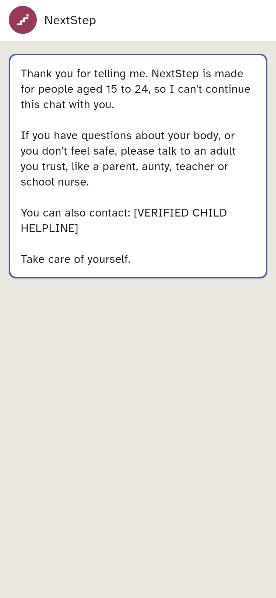
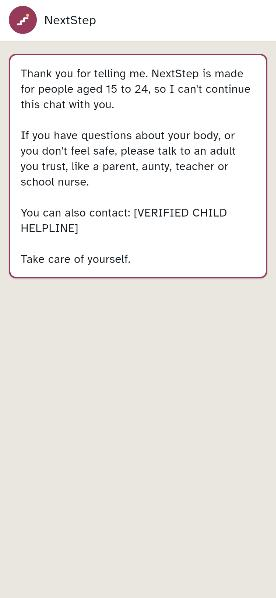
Make berry consistent across all screens
Service card banner and icons, crisis call button and border, under-15
panel, safety chip (deep berry), quick-exit calculator, staff screens and
the dashboard now use berry instead of teal/blue.

Changed region(s): [[0.9565, 0.0903, 0.9855, 0.4515], [0.029, 0.0903, 0.058, 0.4515]]

diff --git a/app/static/dashboard/index.html b/app/static/dashboard/index.html
@@ -29,7 +29,7 @@ input{min-height:44px;border-radius:12px;border:2px solid #E3DFD7;padding:0 12px
         </div>
       </div>
       <div style="display:flex;flex-wrap:wrap;gap:10px;align-items:center">
-        <span style="display:inline-flex;align-items:center;gap:8px;background:#DCEFEC;color:#0F5C5A;font-weight:700;font-size:14px;padding:8px 14px;border-radius:999px">
+        <span style="display:inline-flex;align-items:center;gap:8px;background:#FBE4EC;color:#A3305A;font-weight:700;font-size:14px;padding:8px 14px;border-radius:999px">
           <svg width="16" height="16" viewBox="0 0 24 24" fill="none" stroke="currentColor" stroke-width="2" stroke-linecap="round" stroke-linejoin="round" aria-hidden="true"><path d="M7 11h10a2 2 0 012 2v6a2 2 0 01-2 2H7a2 2 0 01-2-2v-6a2 2 0 012-2z M8 11V8a4 4 0 018 0v3"/></svg>Anonymised aggregate data
         </span>
         <span id="sample" hidden style="background:#F6C453;color:#1B1F23;font-weight:700;font-size:14px;padding:8px 14px;border-radius:999px">Sample / test data</span>
@@ -42,8 +42,8 @@ input{min-height:44px;border-radius:12px;border:2px solid #E3DFD7;padding:0 12px
       <h2>Sign in</h2>
       <input id="u" aria-label="Username" placeholder="Username" autocomplete="username">
       <input id="p" aria-label="Password" placeholder="Password" type="password" autocomplete="current-password">
-      <button type="button" id="go" style="min-height:44px;border-radius:999px;border:none;background:#0F5C5A;color:#FFFFFF;font:700 15px 'Atkinson Hyperlegible',sans-serif">Sign in</button>
-      <span id="err" style="color:#C2462E;font-size:14px"></span>
+      <button type="button" id="go" style="min-height:44px;border-radius:999px;border:none;background:#A3305A;color:#FFFFFF;font:700 15px 'Atkinson Hyperlegible',sans-serif">Sign in</button>
+      <span id="err" style="color:#6E1F3D;font-size:14px"></span>
     </section>
 
     <div id="app" hidden style="display:flex;flex-direction:column;gap:24px">
@@ -73,15 +73,15 @@ input{min-height:44px;border-radius:12px;border:2px solid #E3DFD7;padding:0 12px
           <div id="langs" style="display:flex;flex-direction:column;gap:16px"></div>
           <span style="font-size:13px;color:#4A5560">Voice notes: <span id="voice"></span> of questions arrived as voice.</span>
         </section>
-        <section class="panel" style="border:2px solid #2F5DA8;gap:12px">
-          <h2 style="display:flex;align-items:center;gap:10px"><svg width="22" height="22" viewBox="0 0 24 24" fill="none" stroke="#2F5DA8" stroke-width="2" stroke-linecap="round" stroke-linejoin="round" aria-hidden="true"><path d="M12 20s-7-4.5-7-10a4 4 0 017-2.5A4 4 0 0119 10c0 5.5-7 10-7 10z"/></svg>Crisis escalations</h2>
-          <span id="crisis" style="font-family:'Bricolage Grotesque',sans-serif;font-size:48px;font-weight:700;color:#2F5DA8;line-height:1"></span>
+        <section class="panel" style="border:2px solid #6E1F3D;gap:12px">
+          <h2 style="display:flex;align-items:center;gap:10px"><svg width="22" height="22" viewBox="0 0 24 24" fill="none" stroke="#6E1F3D" stroke-width="2" stroke-linecap="round" stroke-linejoin="round" aria-hidden="true"><path d="M12 20s-7-4.5-7-10a4 4 0 017-2.5A4 4 0 0119 10c0 5.5-7 10-7 10z"/></svg>Crisis escalations</h2>
+          <span id="crisis" style="font-family:'Bricolage Grotesque',sans-serif;font-size:48px;font-weight:700;color:#6E1F3D;line-height:1"></span>
           <span style="font-size:15px">Times support contacts were shared after a disclosure.</span>
           <span style="font-size:13px;line-height:20px;color:#4A5560">Count only. No message text, IDs, types below 5 or exact times are ever stored or shown.</span>
         </section>
       </div>
 
-      <section style="background:#DCEFEC;border-radius:20px;padding:20px 24px;display:flex;flex-wrap:wrap;gap:12px 32px;font-size:14px;line-height:20px;color:#0A403F">
+      <section style="background:#FBE4EC;border-radius:20px;padding:20px 24px;display:flex;flex-wrap:wrap;gap:12px 32px;font-size:14px;line-height:20px;color:#6E1F3D">
         <strong style="flex:1 1 100%;font-size:16px">Privacy rules for this dashboard</strong>
         <span style="flex:1 1 260px">No names, phone numbers, WhatsApp IDs or message content: events are counted at source and the raw chat is never sent here.</span>
         <span style="flex:1 1 260px">Any count below 5 shows as "&lt;5" to prevent identifying individuals.</span>
@@ -131,7 +131,7 @@ input{min-height:44px;border-radius:12px;border:2px solid #E3DFD7;padding:0 12px
     const rb = $('ranges'); rb.textContent = '';
     for (const [k, l] of R) {
       const on = k === cur;
-      const b = el('button', `min-height:44px;padding:0 18px;border-radius:999px;border:2px solid #0F5C5A;background:${on ? '#0F5C5A' : '#FFFFFF'};color:${on ? '#FFFFFF' : '#0F5C5A'};font:700 15px 'Atkinson Hyperlegible',sans-serif`, l);
+      const b = el('button', `min-height:44px;padding:0 18px;border-radius:999px;border:2px solid #A3305A;background:${on ? '#A3305A' : '#FFFFFF'};color:${on ? '#FFFFFF' : '#A3305A'};font:700 15px 'Atkinson Hyperlegible',sans-serif`, l);
       b.type = 'button'; b.setAttribute('aria-pressed', String(on)); b.onclick = () => { cur = k; load(); }; rb.appendChild(b);
     }
     $('rtext').textContent = d.range_text;
@@ -153,8 +153,8 @@ input{min-height:44px;border-radius:12px;border:2px solid #E3DFD7;padding:0 12px
       row.appendChild(el('span', 'flex:0 0 140px;font-size:14px;color:#4A5560', x.conv));
       f.appendChild(row);
     }
-    bars('ages', d.ages, ['#0F5C5A', '#2D8A84', '#4A5560']);
-    bars('langs', d.langs, ['#0F5C5A', '#C2462E']);
+    bars('ages', d.ages, ['#A3305A', '#C65B82', '#4A5560']);
+    bars('langs', d.langs, ['#A3305A', '#6E1F3D']);
     $('voice').textContent = d.voice_share;
     $('crisis').textContent = d.crisis;
   }

diff --git a/app_flutter/lib/screens/staff/staff.dart b/app_flutter/lib/screens/staff/staff.dart
@@ -52,7 +52,7 @@ Scaffold _page(BuildContext context, String title, List<Widget> children, {Widge
   );
 }
 
-final _primary = FilledButton.styleFrom(backgroundColor: W.teal, minimumSize: const Size(48, 48), shape: const StadiumBorder());
+final _primary = FilledButton.styleFrom(backgroundColor: W.berry, minimumSize: const Size(48, 48), shape: const StadiumBorder());
 
 class StaffLoginScreen extends StatefulWidget {
   const StaffLoginScreen({super.key});
@@ -177,7 +177,7 @@ class _SessionsScreenState extends State<SessionsScreen> {
             onTap: () => context.push('/staff/session/${x['id']}'),
           )),
         ),
-    ], fab: FloatingActionButton.extended(key: const Key('new-session'), backgroundColor: W.teal, foregroundColor: Colors.white,
+    ], fab: FloatingActionButton.extended(key: const Key('new-session'), backgroundColor: W.berry, foregroundColor: Colors.white,
         onPressed: () => _create(s), icon: const Icon(Icons.add), label: const Text('New session')));
   }
 }
@@ -230,7 +230,7 @@ class _SessionScreenState extends State<SessionScreen> {
         _panel(Column(children: [
           QrImageView(data: ses['join_url'], size: 200, backgroundColor: Colors.white),
           Text(ses['join_code'], key: const Key('join-code'),
-              style: const TextStyle(fontSize: 34, fontWeight: FontWeight.w800, letterSpacing: 6, color: W.teal)),
+              style: const TextStyle(fontSize: 34, fontWeight: FontWeight.w800, letterSpacing: 6, color: W.berry)),
           SelectableText(ses['join_url'], style: const TextStyle(fontSize: 12, color: _text2)),
         ])),
         SizedBox(
@@ -241,7 +241,7 @@ class _SessionScreenState extends State<SessionScreen> {
               Container(
                 margin: const EdgeInsets.only(top: 12),
                 padding: const EdgeInsets.all(12),
-                decoration: BoxDecoration(borderRadius: BorderRadius.circular(12), border: Border.all(color: W.blue, width: 2)),
+                decoration: BoxDecoration(borderRadius: BorderRadius.circular(12), border: Border.all(color: W.berry, width: 2)),
                 child: Text('${data!['flagged_count']} flagged for support. ${data!['support_reminder']}', key: const Key('flag-reminder')),
               ),
             const SizedBox(height: 12),
@@ -281,7 +281,7 @@ class _SessionScreenState extends State<SessionScreen> {
           padding: const EdgeInsets.only(bottom: 10),
           child: _panel(Column(crossAxisAlignment: CrossAxisAlignment.start, children: [
             Row(children: [
-              Expanded(child: Text('${t['label']} · ${t['count']}', style: const TextStyle(fontWeight: FontWeight.w700, color: W.teal))),
+              Expanded(child: Text('${t['label']} · ${t['count']}', style: const TextStyle(fontWeight: FontWeight.w700, color: W.berry))),
               Checkbox(
                 value: t['answered'] == true,
                 onChanged: (v) async {
@@ -338,13 +338,13 @@ class _ProjectorScreenState extends State<ProjectorScreen> {
     return Scaffold(
       backgroundColor: _bg,
       body: ListView(padding: const EdgeInsets.all(32), children: [
-        Text('Code ${data?['join_code'] ?? ''}', style: const TextStyle(fontSize: 28, fontWeight: FontWeight.w800, color: W.teal)),
+        Text('Code ${data?['join_code'] ?? ''}', style: const TextStyle(fontSize: 28, fontWeight: FontWeight.w800, color: W.berry)),
         const SizedBox(height: 20),
         for (final t in themes)
           Padding(
             padding: const EdgeInsets.only(bottom: 20),
             child: _panel(Column(crossAxisAlignment: CrossAxisAlignment.start, children: [
-              Text(t['label'], style: const TextStyle(fontSize: 30, fontWeight: FontWeight.w700, color: W.teal)),
+              Text(t['label'], style: const TextStyle(fontSize: 30, fontWeight: FontWeight.w700, color: W.berry)),
               const SizedBox(height: 10),
               if (t['answer'] != null) Text(t['answer'], style: const TextStyle(fontSize: 24, height: 1.4)),
             ])),

diff --git a/app_flutter/lib/widgets/chat_ui.dart b/app_flutter/lib/widgets/chat_ui.dart
@@ -13,11 +13,9 @@ class W {
   static const bot = Color(0xFFFFFFFF);
   static const btnLine = Color(0xFFE9EDEF);
   static const link = Color(0xFFA3305A); // berry: reply buttons
-  static const teal = Color(0xFF0F5C5A); // kept for the service card
   static const berry = Color(0xFFA3305A); // logo, mic/send, accents
   static const berryDeep = Color(0xFF6E1F3D);
   static const yellow = Color(0xFFF6C453);
-  static const blue = Color(0xFF2F5DA8);
   static const pillYellow = Color(0xFFFFF5C4);
   static const pillYellowInk = Color(0xFF54470F);
   static const shadow = [BoxShadow(color: Color(0x21000000), offset: Offset(0, 1), blurRadius: 0.5)];
@@ -275,7 +273,7 @@ class BotBubble extends StatelessWidget {
                 padding: const EdgeInsets.only(top: 4),
                 child: Wrap(spacing: 6, children: [
                   if (draft) Tag(draftLabel, bg: W.yellow, fg: const Color(0xFF1B1F23)),
-                  if (safety) Tag(safetyLabel, bg: W.blue, fg: Colors.white),
+                  if (safety) Tag(safetyLabel, bg: W.berryDeep, fg: Colors.white),
                 ]),
               ),
           ]),
@@ -293,14 +291,14 @@ class ServiceCardTop extends StatelessWidget {
         margin: const EdgeInsets.fromLTRB(4, 4, 4, 0),
         height: 140,
         padding: const EdgeInsets.all(14),
-        decoration: BoxDecoration(color: W.teal, borderRadius: BorderRadius.circular(8)),
+        decoration: BoxDecoration(color: W.berry, borderRadius: BorderRadius.circular(8)),
         child: Column(crossAxisAlignment: CrossAxisAlignment.start, mainAxisAlignment: MainAxisAlignment.spaceBetween, children: [
           Row(crossAxisAlignment: CrossAxisAlignment.start, children: [
             SizedBox(width: 34, height: 34, child: CustomPaint(painter: StepsMark(stroke: W.berry, dot: W.berryDeep, tile: Colors.white))),
             const Spacer(),
             if (free != null) Tag(free!, bg: W.yellow, fg: const Color(0xFF1B1F23)),
             const SizedBox(width: 6),
-            if (youth != null) Tag(youth!, bg: Colors.white, fg: W.teal),
+            if (youth != null) Tag(youth!, bg: Colors.white, fg: W.berry),
           ]),
           Text(label, style: const TextStyle(fontSize: 20, fontWeight: FontWeight.w700, color: Colors.white)),
         ]),

diff --git a/app_flutter/lib/ui/preview.dart b/app_flutter/lib/ui/preview.dart
@@ -61,7 +61,7 @@ class PreviewScreen extends StatelessWidget {
       case 'under15':
         return Scaffold(
           appBar: nsBar(title: 'NextStep', brand: true),
-          body: NsBody(children: [Panel(border: W.blue, child: Text(t('age', 'under15'), style: bodyText))]),
+          body: NsBody(children: [Panel(border: W.berry, child: Text(t('age', 'under15'), style: bodyText))]),
         );
       case 'language':
         return Scaffold(
@@ -212,9 +212,9 @@ class PreviewScreen extends StatelessWidget {
                         const SizedBox(height: 8),
                         const Text('[DEMO] Youth Health Service A', style: TextStyle(fontSize: 16, fontWeight: FontWeight.w700)),
                         const SizedBox(height: 6),
-                        const Row(children: [Icon(Icons.place_outlined, size: 18, color: W.teal), SizedBox(width: 6), Text('[STREET ADDRESS], Yaba')]),
+                        const Row(children: [Icon(Icons.place_outlined, size: 18, color: W.berry), SizedBox(width: 6), Text('[STREET ADDRESS], Yaba')]),
                         const SizedBox(height: 6),
-                        const Row(children: [Icon(Icons.schedule, size: 18, color: W.teal), SizedBox(width: 6), Text('[DAYS], [HOURS]')]),
+                        const Row(children: [Icon(Icons.schedule, size: 18, color: W.berry), SizedBox(width: 6), Text('[DAYS], [HOURS]')]),
                         const SizedBox(height: 10),
                         Text(t('referral', 'expect_title'), style: const TextStyle(fontWeight: FontWeight.w700)),
                         Text(t('referral', 'expect')),
@@ -267,8 +267,8 @@ class PreviewScreen extends StatelessWidget {
         return Scaffold(
           appBar: nsBar(title: t('app', 'crisis_title'), onBack: back, actions: [exit]),
           body: NsBody(
-            bottom: PrimaryButton('${t('app', 'call')} [VERIFIED HELPLINE 1]', onPressed: nop, color: W.blue),
-            children: [Panel(border: W.blue, child: Text(t('crisis', 'violence'), style: bodyText))],
+            bottom: PrimaryButton('${t('app', 'call')} [VERIFIED HELPLINE 1]', onPressed: nop, color: W.berry),
+            children: [Panel(border: W.berry, child: Text(t('crisis', 'violence'), style: bodyText))],
           ),
         );
 

diff --git a/app_flutter/lib/screens/chat.dart b/app_flutter/lib/screens/chat.dart
@@ -249,20 +249,20 @@ class _ChatScreenState extends State<ChatScreen> {
               Text(c['name'], style: const TextStyle(fontSize: 16, fontWeight: FontWeight.w700)),
               const SizedBox(height: 6),
               Row(crossAxisAlignment: CrossAxisAlignment.start, children: [
-                const Icon(Icons.place_outlined, size: 18, color: W.teal),
+                const Icon(Icons.place_outlined, size: 18, color: W.berry),
                 const SizedBox(width: 6),
                 Expanded(child: Text(c['address'])),
               ]),
               const SizedBox(height: 6),
               Row(crossAxisAlignment: CrossAxisAlignment.start, children: [
-                const Icon(Icons.schedule, size: 18, color: W.teal),
+                const Icon(Icons.schedule, size: 18, color: W.berry),
                 const SizedBox(width: 6),
                 Expanded(child: Text(c['hours_raw'])),
               ]),
               if (c['code'] != null) ...[
                 const SizedBox(height: 6),
                 Row(children: [
-                  const Icon(Icons.confirmation_number_outlined, size: 18, color: W.teal),
+                  const Icon(Icons.confirmation_number_outlined, size: 18, color: W.berry),
                   const SizedBox(width: 6),
                   SelectableText(c['code'], key: const Key('referral-code'),
                       style: const TextStyle(fontWeight: FontWeight.w700, letterSpacing: 2, fontSize: 16)),

diff --git a/app_flutter/lib/main.dart b/app_flutter/lib/main.dart
@@ -61,7 +61,7 @@ class _NextStepAppState extends State<NextStepApp> {
     return MaterialApp.router(
       title: 'NextStep',
       debugShowCheckedModeBanner: false,
-      theme: ThemeData(useMaterial3: true, colorSchemeSeed: const Color(0xFF0F5C5A), fontFamily: 'Atkinson'),
+      theme: ThemeData(useMaterial3: true, colorSchemeSeed: const Color(0xFFA3305A), fontFamily: 'Atkinson'),
       routerConfig: router,
       builder: (ctx, child) {
         if (!s.ready) return const Scaffold(backgroundColor: Color(0xFFEAE6DF));

diff --git a/app_flutter/lib/screens/lock.dart b/app_flutter/lib/screens/lock.dart
@@ -61,7 +61,7 @@ class _NeutralScreenState extends State<NeutralScreen> {
           ),
         );
     return Theme(
-      data: ThemeData(useMaterial3: true, colorSchemeSeed: Colors.blueGrey),
+      data: ThemeData(useMaterial3: true, colorSchemeSeed: const Color(0xFFA3305A)),
       child: Scaffold(
         appBar: AppBar(title: const Text('Calculator')),
         body: SafeArea(

diff --git a/app/dashboard.py b/app/dashboard.py
@@ -71,14 +71,14 @@ def summarise(rows: list[dict], range_key: str = "30", *, today: date | None = N
             {"key": "conversations", "label": "Conversations", "v": suppress(conv), "note": "Consented chats", "color": "#1B1F23"},
             {"key": "checks", "label": "Private checks", "v": suppress(checks), "note": "Completed all 6 questions", "color": "#1B1F23"},
             {"key": "referrals", "label": "Referrals given", "v": suppress(refs), "note": "Service cards sent", "color": "#1B1F23"},
-            {"key": "visits", "label": "Visits confirmed", "v": suppress(visits), "note": "Confirmed by partner clinics", "color": "#C2462E"},
-            {"key": "crisis", "label": "Crisis escalations", "v": suppress(tot["crisis_escalation"]), "note": "Count only", "color": "#2F5DA8"},
+            {"key": "visits", "label": "Visits confirmed", "v": suppress(visits), "note": "Confirmed by partner clinics", "color": "#6E1F3D"},
+            {"key": "crisis", "label": "Crisis escalations", "v": suppress(tot["crisis_escalation"]), "note": "Count only", "color": "#6E1F3D"},
         ],
         "funnel": [
-            {"label": "Conversations", "v": suppress(conv), "pct": 100 if conv >= SUPPRESS_BELOW else 0, "conv": "Started", "color": "#0F5C5A"},
-            {"label": "Private checks", "v": suppress(checks), "pct": w(checks), "conv": f"{pct(checks, conv)} of conversations", "color": "#0F5C5A"},
-            {"label": "Referrals given", "v": suppress(refs), "pct": w(refs), "conv": f"{pct(refs, checks)} of checks", "color": "#0F5C5A"},
-            {"label": "Visits confirmed", "v": suppress(visits), "pct": w(visits), "conv": f"{pct(visits, refs)} of referrals", "color": "#C2462E"},
+            {"label": "Conversations", "v": suppress(conv), "pct": 100 if conv >= SUPPRESS_BELOW else 0, "conv": "Started", "color": "#A3305A"},
+            {"label": "Private checks", "v": suppress(checks), "pct": w(checks), "conv": f"{pct(checks, conv)} of conversations", "color": "#A3305A"},
+            {"label": "Referrals given", "v": suppress(refs), "pct": w(refs), "conv": f"{pct(refs, checks)} of checks", "color": "#A3305A"},
+            {"label": "Visits confirmed", "v": suppress(visits), "pct": w(visits), "conv": f"{pct(visits, refs)} of referrals", "color": "#6E1F3D"},
         ],
         "ages": split(age, [("18_24", "18–24"), ("15_17", "15–17"), ("under_15", "Under 15 (exited)")]),
         "langs": split(lang, [("en", "English"), ("pcm", "Nigerian Pidgin")]),
